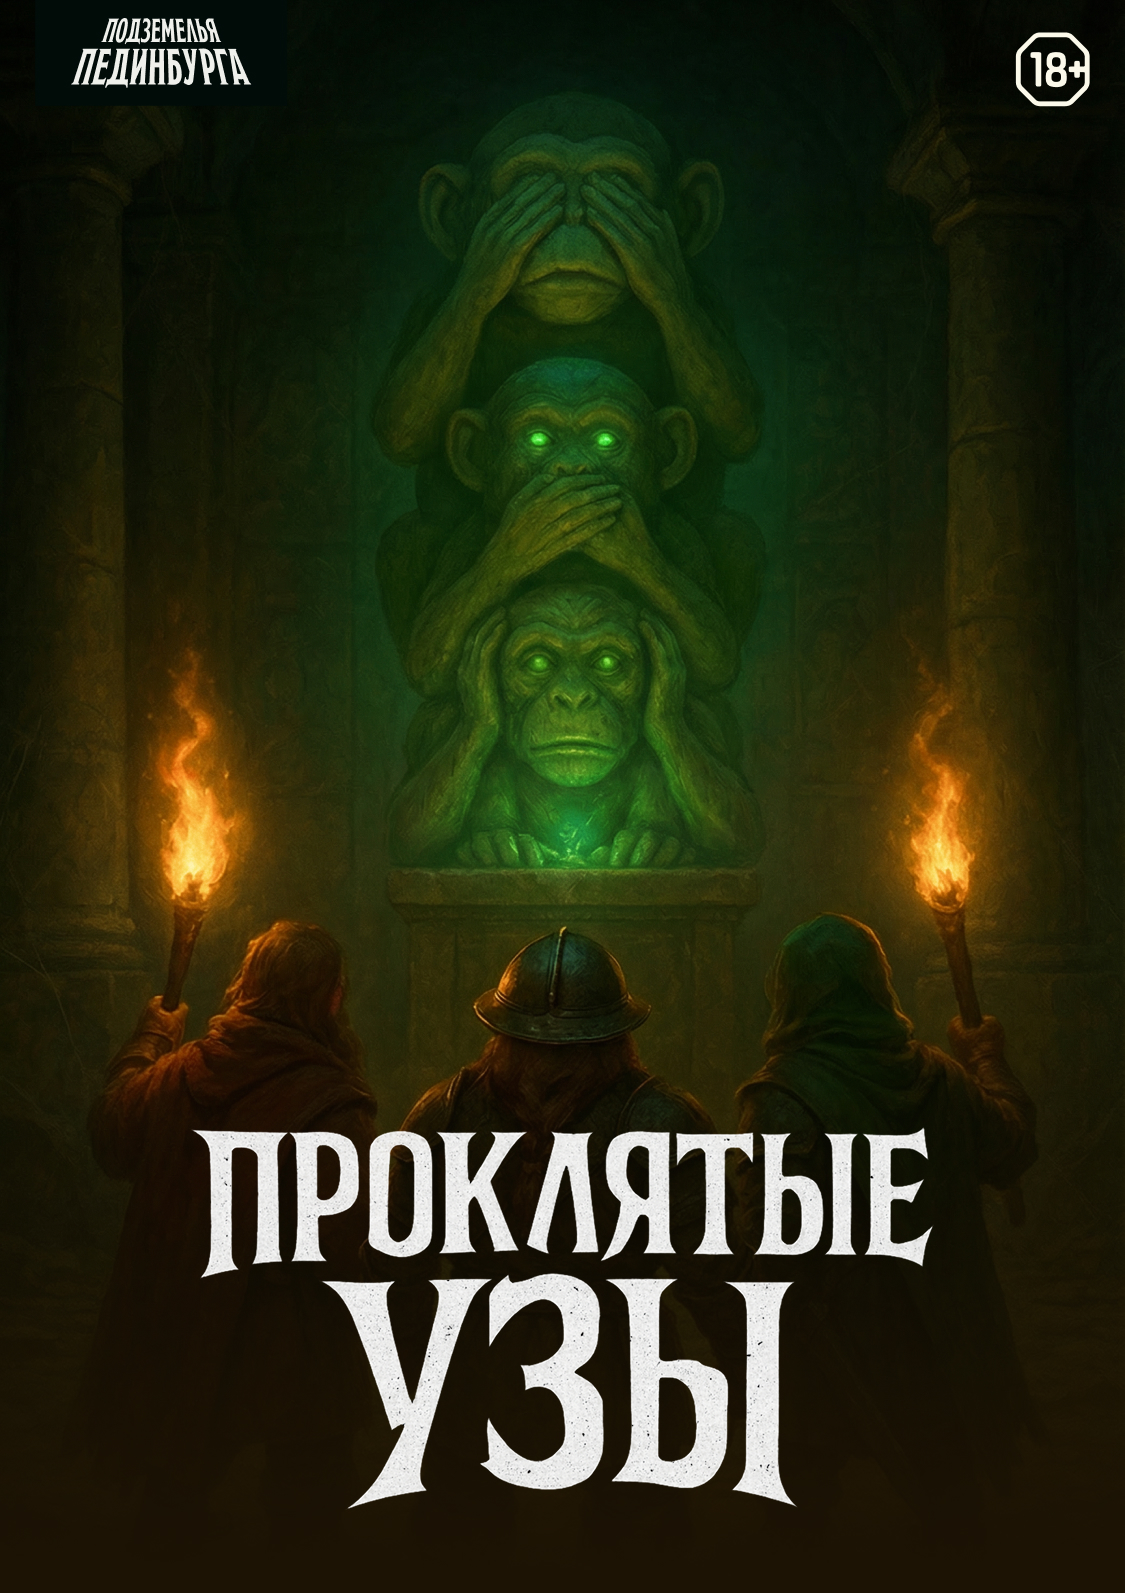
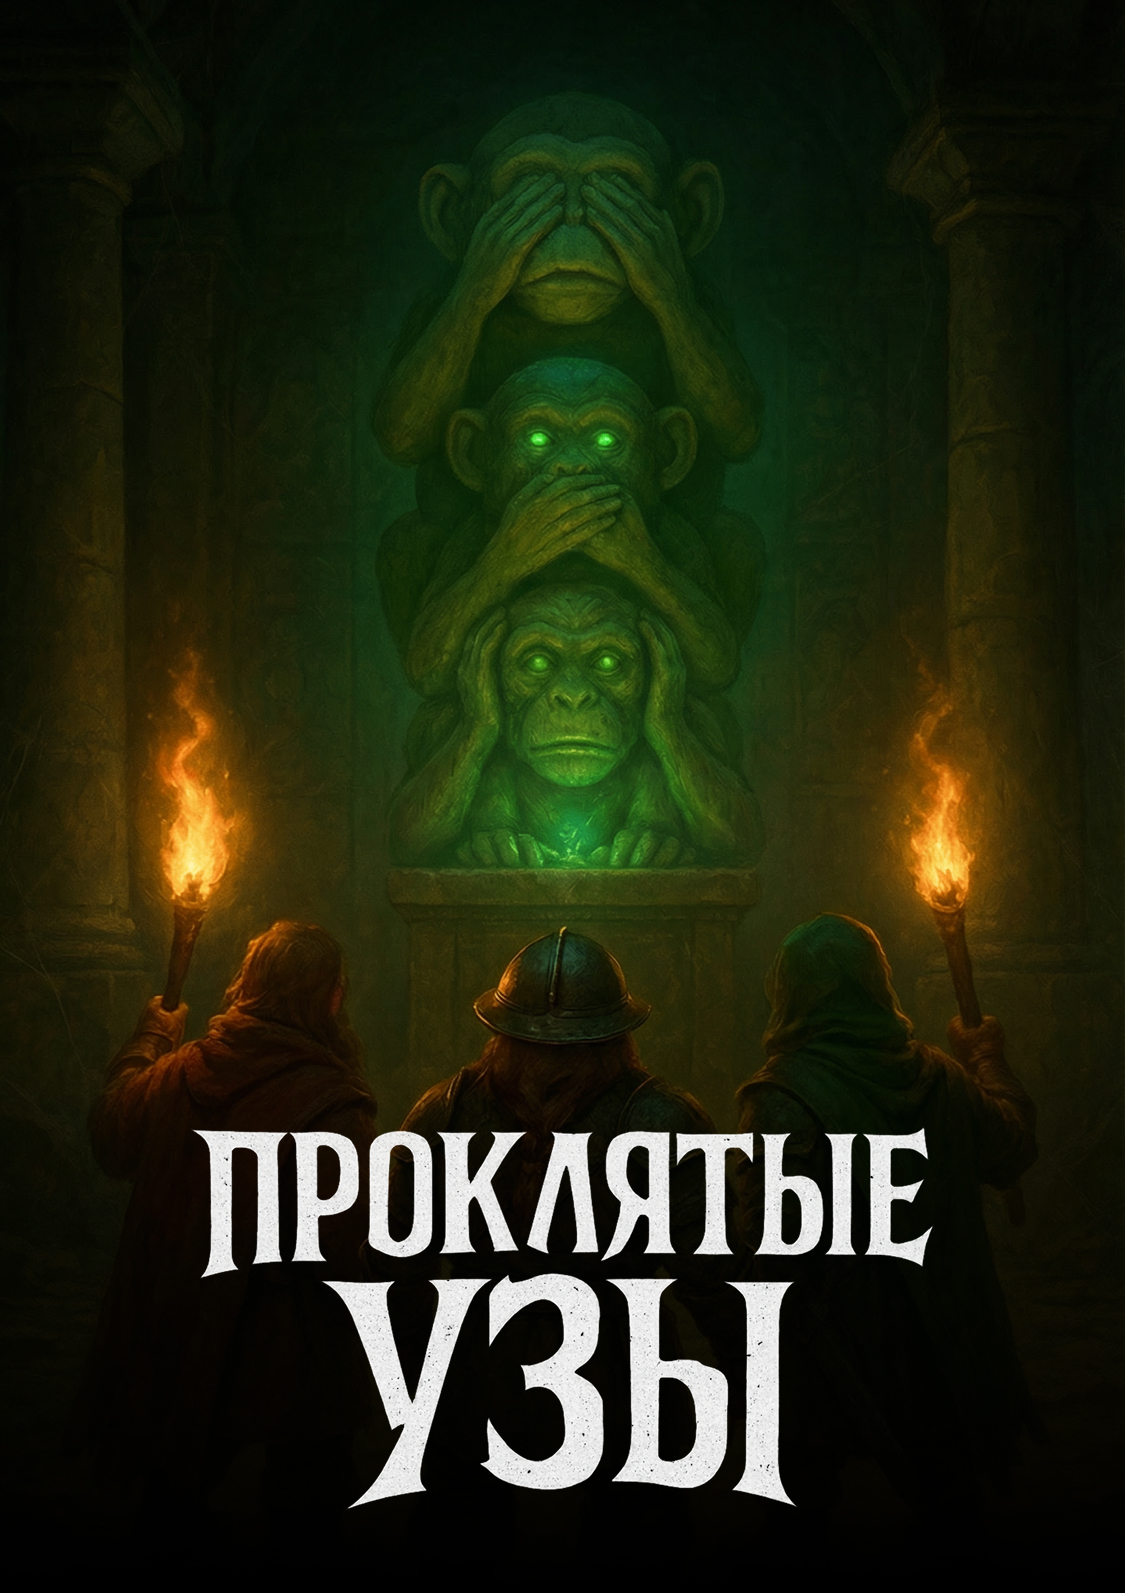
• Добавлена игра Ромы в листинг с обновленным Next JS

Changed region(s): [[0.0, 0.9228, 1.0, 1.0], [0.0622, 0.0, 0.2178, 0.0615], [0.9022, 0.0, 0.9956, 0.0615]]

diff --git a/src/data/adventures.ts b/src/data/adventures.ts
@@ -67,7 +67,7 @@ export const adventuresDB: Record<string, Adventure> = {
   'the-cursed-bond': {
     title: 'Проклятые узы',
     imageUrl: '/images/common/adventure-covers/the-cursed-bond-cover.jpg',
-    coverImageUrl: '/images/common/adventure-mini-covers/the-cursed-mini-cover.jpg',
+    coverImageUrl: '/images/common/adventure-mini-covers/the-cursed-bond-mini-cover.jpg',
     description: `Некогда славный клан дварфов Затулинских Кузнецов переживает упадок: семейная шахта затоплена, а наследный рудник разорён и оккупирован драконом. Разрозненный и обездоленный клан вынужден был эмигрировать на Правобережье и искать способ выжить в условиях постоянного повышения налогов на малый кузнечный бизнес и повышенного утилизационного сбора на наковальни. Дела шли настолько плохо, что хоть бороду суй в горн! Но всё изменилось, когда трём дружным братьям из клана попала в руки карта, сулящая древнее сокровище и заодно неиллюзорный шанс вернуть богатство и славу их роду.
 
 В этом приключении игрокам предстоит взять на себя роль троих братьев-дварфов 1 уровня и отправится в забытые историей древние залы гробницы, чтобы отыскать заветный артефакт. Но даже самый пустоголовый гоблин знает - в древних гробницах нужно быть всегда на чеку...`,

diff --git a/src/data/masters.ts b/src/data/masters.ts
@@ -32,7 +32,7 @@ export const mastersDB: Record<string, Master> = {
   },
   'roman-saltovsky': {
     name: 'Роман Салтовский',
-    avatarUrl: '/images/icons/masters/roman-saltovsky.png',
+    avatarUrl: '/images/icons/masters/roman-saltovsky.jpg',
     description: '—',
   },
 };
